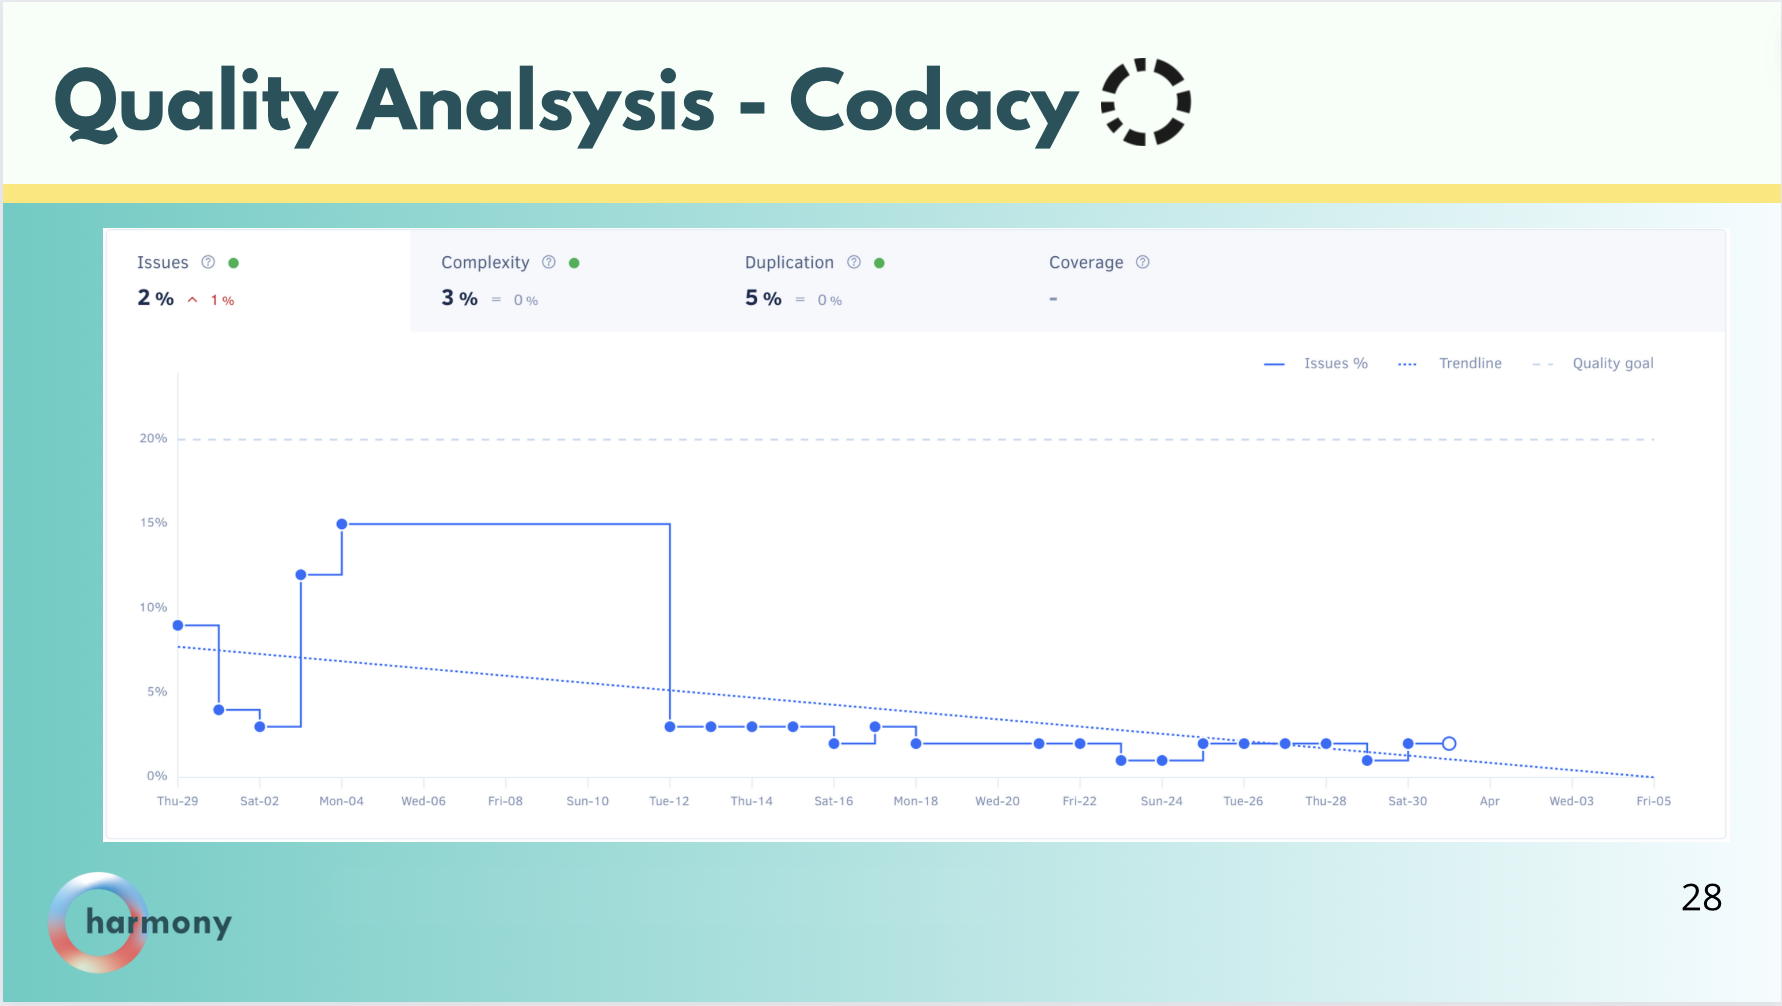
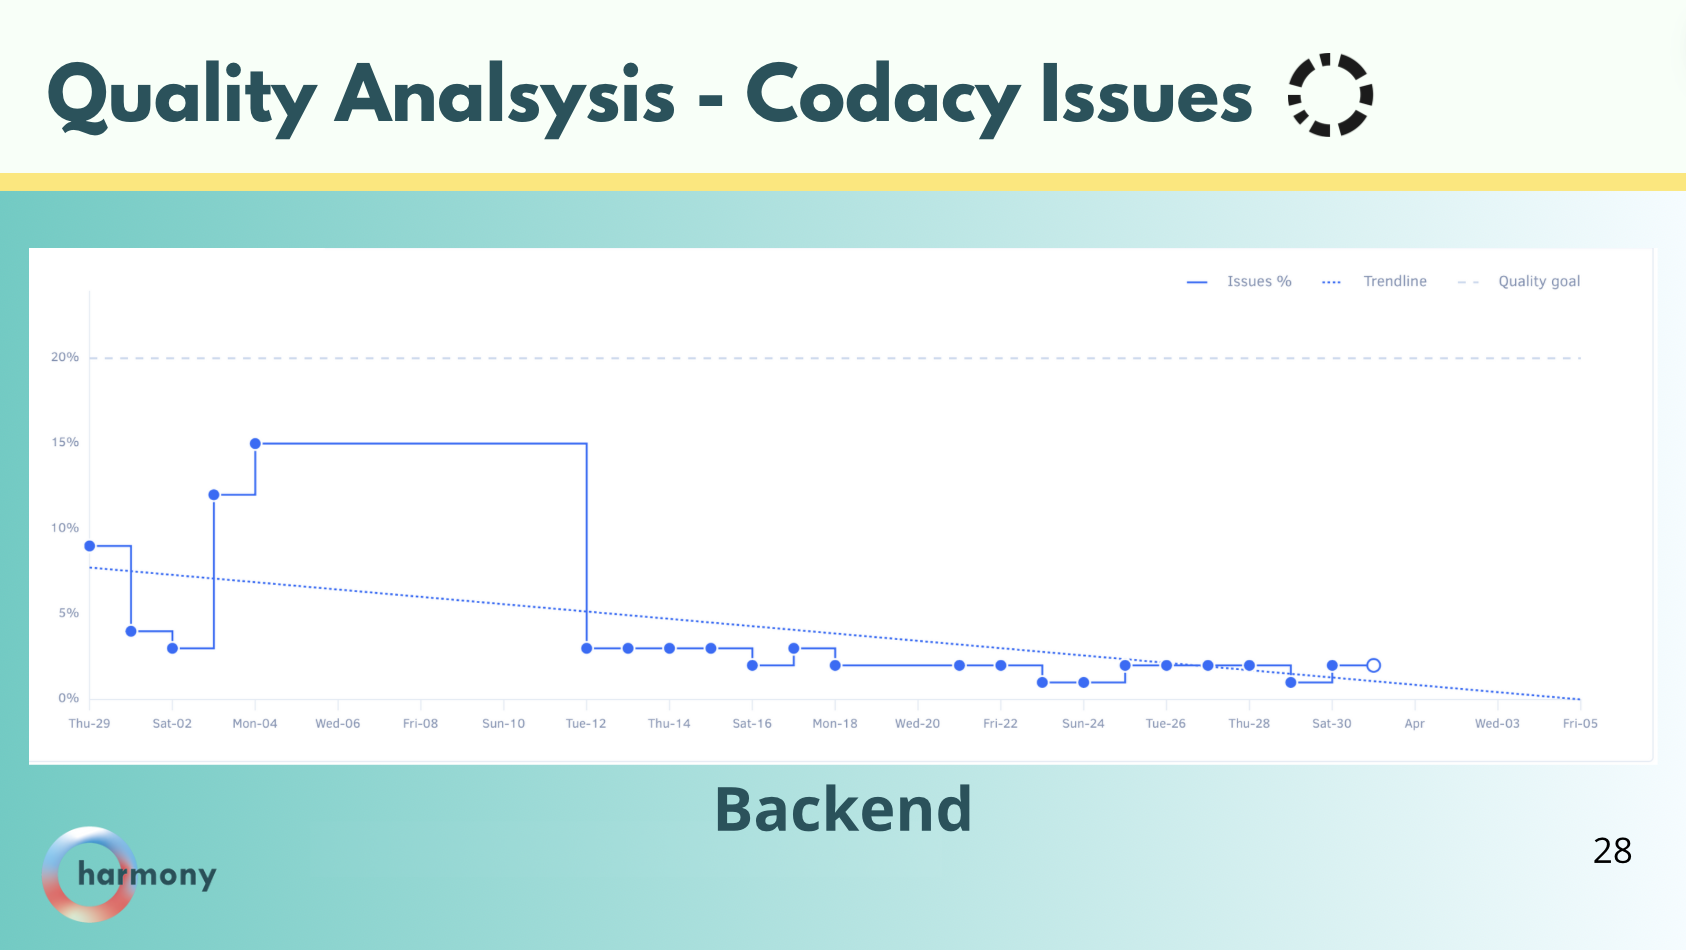
doc: Update performance charts and changelog #217

diff --git a/docs/Presentaciones/02-04-2024.md b/docs/Presentaciones/02-04-2024.md
@@ -39,14 +39,14 @@ Figura 27. Calendly
 Figura 28. Análisis de la calidad
 </p>
 
-**En este caso, vamos a hablar del análisis generado por codacy para nuestros repositorios de código**. La calidad de código desde el principio ha sido uno de nuestros objetivos, ya que un código de calidad es mantenible, usable y fiable. 
+**Aparte de mejorar el agendamiento, la mejora de la calidad de código desde el principio ha sido uno de nuestros objetivos.** Durante las dos primeras fases de desarrollo hemos obtenido calidad A en todos los repositorios, lo que nos ha permitido mantener un código limpio y de calidad.
 
 <p align="center">
 <img src="\img\pptx\codacy2.png" alt="qualityCodacy2" width="60%" height="60%"/>
 Figura 29. Gráfica del Sprint 2
 </p>
 
-Aun así, me gustaría mencionar algunas cosas, cómo por ejemplo la gráfica del sprint 2 en la que podemos ver cómo al final del Sprint 1 hubo una etapa en la que el código tenía algunos problemas debido al retraso en las tareas que hizo que no se pudiesen resolver estos problemas antes del sprint 2, aunque podemos ver cómo la semana siguiente se resolvieron, manteniendo la calidad en niveles óptimos.
+Aun así, me gustaría mencionar algunas cosas, como por ejemplo la gráfica de evolución de problemas en el código, donde vemos que al final del Sprint 1 hubo una etapa en la que el código tenía algunos problemas debido al retraso en las tareas que hizo que no se pudiesen resolver estos problemas antes del sprint 2, aunque podemos ver cómo la semana siguiente se resolvieron, manteniendo la calidad en niveles óptimos.
 
 <p align="center">
 <img src="\img\pptx\coverage.png" alt="Cobertura" width="60%" height="60%"/>
@@ -71,18 +71,19 @@ Figura 32. Fórmula de calidad de la solución
 </p>
 
 Pues esa puntuación se obtiene mediante esta fórmula en la que tenemos dos factores:
-- El beneificio neto de la solución
+- El beneficio neto de la solución
 - Los recursos utilizados
+
 Ambas son rúbricas del 1 al 5 que están detalladas en el docusaurus.
 
 ## Changelog
 
-<!-- <p align="center">
+<p align="center">
 <img src="\img\pptx\changelog.png" alt="changelog" width="60%" height="60%"/>
-Figura 33. Registro de cambios
-</p> -->
+Figura 33. Registro de cambios de ACAT en el sprint 2
+</p>
 
-**Aquí tenéis el registro de REPOSTIORIO-QUE-SE-MUESTRA**, en la que se puede ver cómo se han implementado nuevas funcionalidades cómo **AQUÍ-NUEVAS-FUNCIONALIDADES-MOSTRADAS-EN-EL-CHANGELOG**.
+**Aparte de gestionar problemas, me gustaría comentar algunos de las funcionalidades que hemos implementado, para ello hemos realizado en cada repositorio una release con su changelog autogenerado cómo es el caso de ACAT**. Para recoger los cambios significativos en este repositorio le hemos pasado a GPT el changelog y nos ha generado un resumen de los cambios más importantes (Mencionar por encima los de la diapositiva si hay tiempo).
 
 ## Reloj del proyecto
 
@@ -99,7 +100,7 @@ Este es el reloj del sprint 2 en el que podemos ver que se han superado ligerame
 Figura 35. Reloj del proyecto global
 </p>
 
-Y este es el reloj global que está 300 horas por encima del esperado, debido a la migración de los documentos a docusaurus y al cambio a mongo.
+Y este es el reloj global que está 300 horas por encima del esperado, debido a la migración de los documentos a docusaurus y al cambio a mongo, entre otras cosas.
 
 <p align="center">
 <img src="\img\pptx\alberto.png" alt="alberto" width="60%" height="60%"/>
@@ -150,7 +151,7 @@ Y este es el calendario de mayo.
 Figura 42. Aspectos clave del CA G1
 </p>
 
-**Estos son algunos aspectos clave de nuestro CA con el grupo 1**: cumplir las deadlines y tener una comunicación fluida son comunes a los dos CA, y  se diferencian del de las ONGs en que deben usar iTop, clockify y que en caso de que no nos guste el tipo de feedback que nos dan, se comprometen a cambiar de revisor.
+**Una vez mencionado el calendario de feedback, los usuarios piloto del grupo 1 se han comprometido a cumplir algunas cláusulas, entre ellas**: cumplir las deadlines y tener una comunicación fluida son comunes a los dos CA, y  se diferencian del de las ONGs en que deben usar iTop, clockify y que en caso de que no nos guste el tipo de feedback que nos dan, se comprometen a cambiar de revisor.
 
 <p align="center">
 <img src="\img\pptx\infoONG.png" alt="infoONG" width="60%" height="60%"/>
@@ -166,10 +167,11 @@ Figura 43. Aspectos clave del CA ONGs
 Figura 44. Estado de las tareas del sprint 2
 </p>
 
-**Así han quedado las tareas del Sprint 2:**
+**Ya sabemos cuál es el estado de los usuarios pilotos, ¿y el del proyecto?** Aquí podemos ver el estado de las tareas del sprint 2.
 Todo hecho expecto:
 - El uso offline de la PWA, que se ha pospuesto para priorizar terminar la funcionalidad principal.
 - Los patch y delete de entrega de comida 
+
 **Estas dos tareas se han replanificado al sprint 3**
 
 <p align="center">
@@ -177,7 +179,7 @@ Todo hecho expecto:
 Figura 45. Tareas del sprint 3
 </p>
 
-**Además de lo mencionado en la diapositiva anterior,** estas son las tareas que se van a realizar en el sprint 3, priorizando las más relevantes para aprobar el sprint.
+**Además de lo mencionado en la diapositiva anterior,** estas son las tareas que se van a realizar en el sprint 3, priorizando las que más valor aportan al servicio.
 
 <p align="center">
 <img src="\img\pptx\gant.png" alt="gant" width="60%" height="60%"/>
@@ -214,12 +216,12 @@ Hemos cumplido todos los apartados requeridos y además nos gustaría añadir un
 
 ## Autoevaluación del Sprint 2
 
-<!-- <p align="center">
-<img src="\img\pptx\evaluation.png" alt="evaluation" width="60%" height="60%"/>
-Figura 50. Evaluación de los sprints 1 y 2
-</p> -->
+<p align="center">
+<img src="\img\pptx\autoevaluacion.png" alt="evaluation" width="60%" height="60%"/>
+Figura 50. Autoevaluación de los sprints 1 y 2
+</p>
 
-Según la recomendación de los profesores, hemos realizado una autoevaluación detallada en el docusaurus para cada sprint y consideramos que la nota merecida en este sprint es de un **NOTA-AQUÍ**.
+Según la recomendación de los profesores, hemos realizado una autoevaluación detallada en el docusaurus para cada sprint en el que revisamos el cumplimiento de todos los criterios de evaluación y además añadimos una valoración de cada uno de estos criterios para poder ver en qué aspectos hemos fallado y en cuáles hemos destacado, generando una puntuación final para cada sprint. Cómo vemos, en este sprint ha habido una mejora general ya que hemos resuelto algunos problemas que teníamos en el sprint 1, cómo la dependencia con mockapi que al llegar al límite de peticiones dejó el despliegue en un estado inestable. La nota que hemos estimado en este sprint es de un 9,89.
 
 ## Recomendación de Harmony
 
